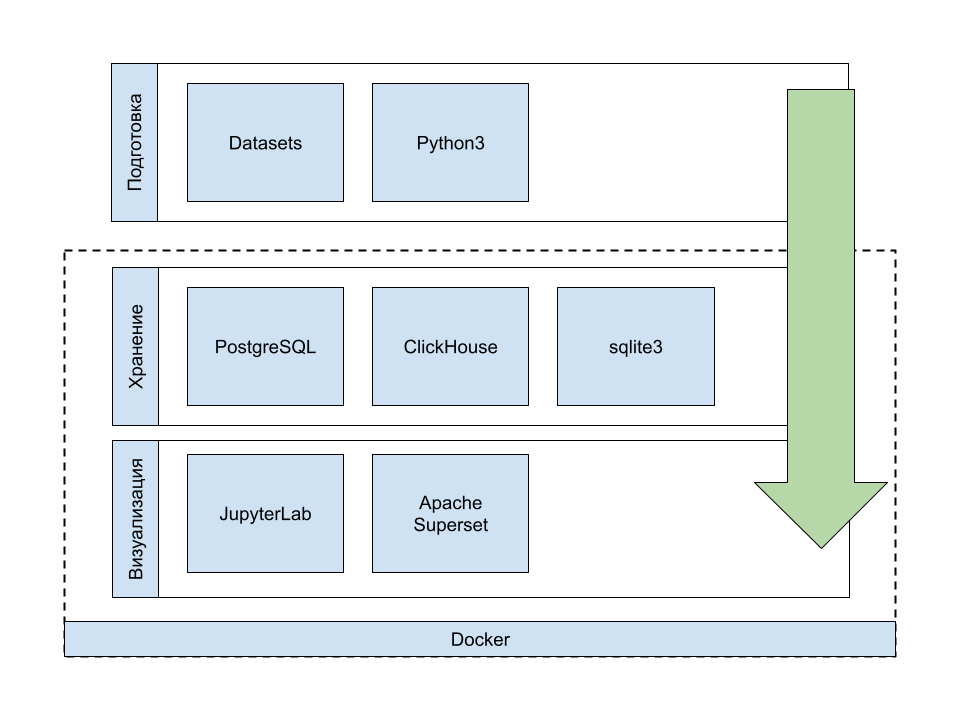
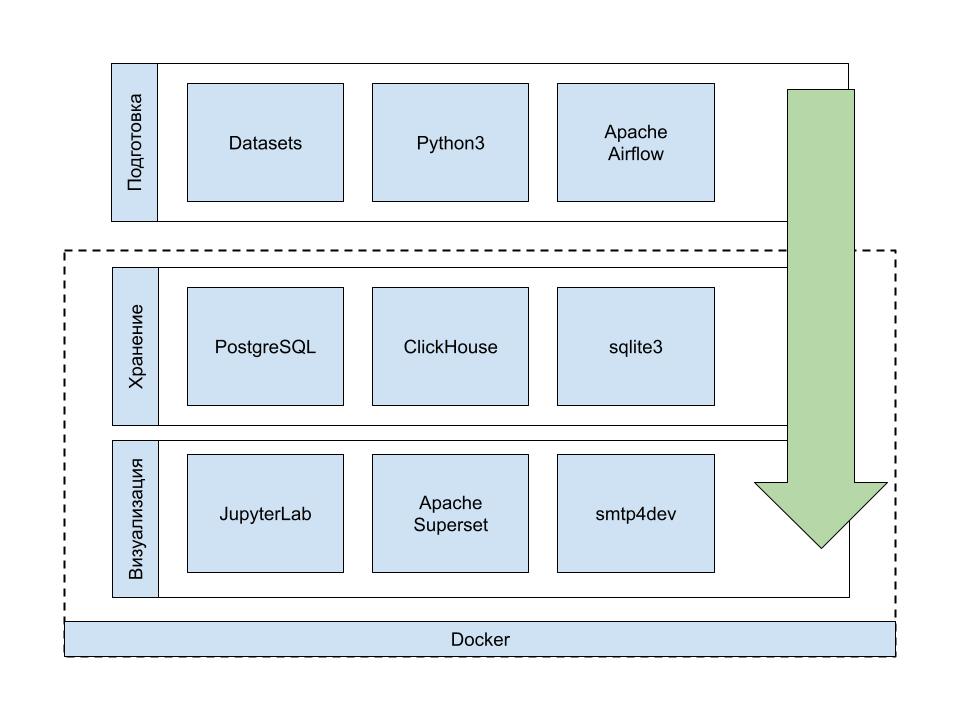
Change README.md

Changed region(s): [[0.5625, 0.0917, 0.75, 0.3056], [0.5625, 0.6111, 0.75, 0.7944]]

diff --git a/README.md b/README.md
@@ -28,6 +28,7 @@
 | Apache Superset | [http://localhost:8088/](http://localhost:8088/) |  |
 | PostgreSQL | [http://localhost:5432/](http://localhost:5432/) |  |
 | ClickHouse | [http://localhost:8123/](http://localhost:8123/) |  |
+| smtp4dev | [http://localhost:5000/](http://localhost:5000/) | Также доступы `POP3` -`2525:25` и `110:110`|
 
 # Демо данные
 ## Используемые `datasets`